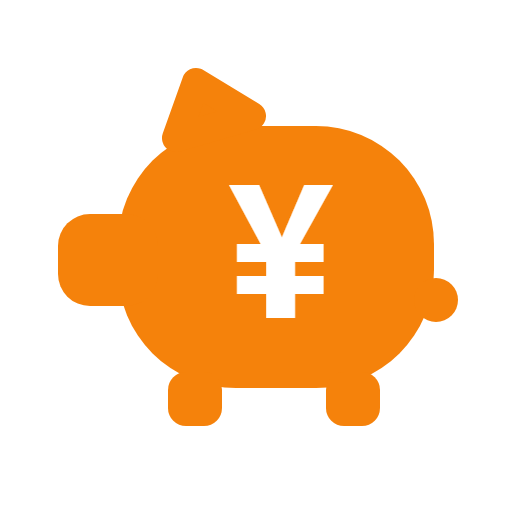
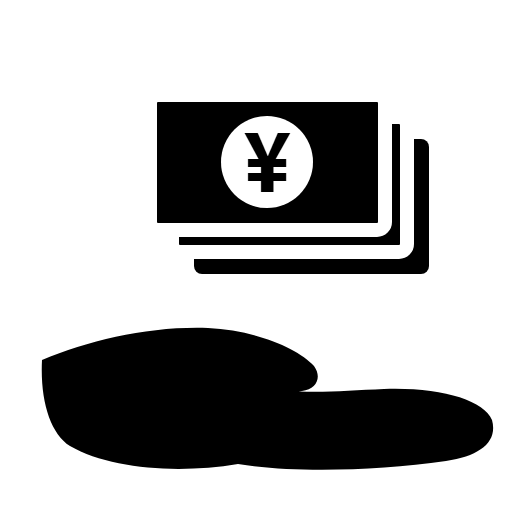
カレンダー固定はグリッドのみに縮小（月間まとめ・選択日はスクロール側へ）・かんたん設定コード（6桁）でクラウドトークン適用・アイコンを手のひら＋紙幣に変更

diff --git a/index.html b/index.html
@@ -679,7 +679,7 @@ function renderCal(main) {
   main.innerHTML = `
   <div class="cal-fixed">
   <h1>カレンダー</h1>
-  <div class="card">
+  <div class="card" style="margin-bottom:6px">
     <div class="cal-head">
       <button onclick="chCalYm(-1)" aria-label="前月">◀</button>
       <span class="ym">${ymLabel(ym)}</span>
@@ -689,7 +689,11 @@ function renderCal(main) {
       <thead><tr>${WD.map(w => `<th>${w}</th>`).join('')}</tr></thead>
       <tbody>${cells}</tbody>
     </table>
-    <div class="sumline" style="margin-top:8px">
+  </div>
+  </div>
+  <div class="cal-scroll">
+  <div class="card">
+    <div class="sumline">
       <div><div class="lb">収入</div><div class="v amt-inc">${yen(msum.inc)}</div></div>
       <div><div class="lb">支出</div><div class="v amt-exp">${yen(msum.exp)}</div></div>
       <div><div class="lb">合計</div><div class="v num ${msum.net < 0 ? 'amt-exp' : ''}">${msum.net < 0 ? '-' : ''}${yen(Math.abs(msum.net))}</div></div>
@@ -699,8 +703,7 @@ function renderCal(main) {
       <button class="ghost" style="padding:4px 8px" onclick="inputAt('${state.calSel}')">＋ この日に入力</button>
     </div>
   </div>
-  </div>
-  <div class="cal-scroll">${listHtml}</div>`;
+  ${listHtml}</div>`;
 }
 function chCalYm(n) { state.calYm = shiftYm(state.calYm, n); render(); }
 // シングルタップ: 日を選択して下部明細の該当日へスクロール / ダブルタップ: その日をプリセットして入力タブへ
@@ -1226,12 +1229,45 @@ function cloudSettingsHtml() {
     <div class="hint">アプリを開いたとき1日1回、非公開リポジトリ（${CLOUD_REPO}）へ自動バックアップします。過去の世代も履歴に残ります。</div>
     <div style="font-size:13px">${status}</div>
     <div class="addrow">
+      <input type="password" id="cloudPin" inputmode="numeric" maxlength="6" placeholder="かんたん設定コード（6桁）" style="flex:1">
+      <button class="primary" onclick="applyPinToken()">適用</button>
+    </div>
+    <div class="addrow">
       <input type="password" id="cloudToken" placeholder="${tokenSet ? '設定済み（変更時のみ入力）' : 'GitHubトークンを貼り付け'}" style="flex:1">
       <button class="primary" onclick="saveCloudToken()">保存</button>
     </div>
     <button onclick="cloudBackupNow()">☁️ 今すぐバックアップ</button>
     <button onclick="cloudRestore()">⬇️ クラウドから復元</button>
     ${tokenSet ? '<button class="danger" onclick="clearCloudToken()">バックアップ停止（トークン削除）</button>' : ''}`;
+}
+/* かんたん設定: 6桁コードを入力すると、埋め込みの暗号文からトークンを復号して適用する。
+   PIN_BLOB は base64(salt16 | iv12 | AES-GCM暗号文)。コード本体・平文トークンはリポジトリに置かない。
+   コード誤り＝AES-GCMの復号失敗として検出する（コードの照合値も持たない）。
+   暗号文の再生成: node tools\make-pin-blob.js <6桁コード> <トークン> */
+const PIN_BLOB = '';
+async function decryptWithPin(pin, blobB64) {
+  const raw = Uint8Array.from(atob(blobB64), ch => ch.charCodeAt(0));
+  const salt = raw.slice(0, 16), iv = raw.slice(16, 28), ct = raw.slice(28);
+  const keyMat = await crypto.subtle.importKey('raw', new TextEncoder().encode(pin), 'PBKDF2', false, ['deriveKey']);
+  const key = await crypto.subtle.deriveKey(
+    { name: 'PBKDF2', salt, iterations: 310000, hash: 'SHA-256' },
+    keyMat, { name: 'AES-GCM', length: 256 }, false, ['decrypt']);
+  const pt = await crypto.subtle.decrypt({ name: 'AES-GCM', iv }, key, ct);
+  return new TextDecoder().decode(pt);
+}
+async function applyPinToken() {
+  const pin = document.getElementById('cloudPin').value.trim();
+  let token;
+  try {
+    if (!/^\d{6}$/.test(pin) || !PIN_BLOB) throw new Error('bad pin');
+    token = await decryptWithPin(pin, PIN_BLOB);
+  } catch (e) {
+    alert('パスワードが間違っています');
+    return;
+  }
+  // 既存の保存フロー（クラウド側バックアップの確認→復元提案つき）に乗せる
+  document.getElementById('cloudToken').value = token;
+  await saveCloudToken();
 }
 async function saveCloudToken() {
   const v = document.getElementById('cloudToken').value.trim();

diff --git a/test/smoke.test.js b/test/smoke.test.js
@@ -41,7 +41,7 @@ const bootstrap = `(function(){ 'use strict';\n` + appJs + `
 ;globalThis.__api = {
   get store() { return store; },
   state, go, render, setDate, setKind, selectCat, pad, padBack, saveEntry, openEntry, deleteEntry, cancelEdit,
-  openPad, closePad, closePadSoft,
+  openPad, closePad, closePadSoft, decryptWithPin, applyPinToken,
   calSelect, chCalYm, chBudYm, chRep, setRepMode, setRepKind, setSetKind,
   renameCat, reorderCats, addCat, addRec, toggleRec, delRec,
   openBudgetEdit, closeBudgetEdit, chBudEditYm, setBudDraftTotal, setBudDraftCat, saveBudgetEdit, budgetForYm,
@@ -356,6 +356,13 @@ A.go('cal');
 assert.strictEqual(elements.main.className, 'calmode', 'カレンダーはmain固定モード');
 assert(elements.main.innerHTML.includes('class="cal-fixed"'), 'グリッド固定部あり');
 assert(elements.main.innerHTML.includes('class="cal-scroll"'), '明細スクロール部あり');
+{
+  const calHtml = elements.main.innerHTML;
+  const fixedPart = calHtml.slice(0, calHtml.indexOf('cal-scroll'));
+  assert(fixedPart.includes('<table class="cal">'), '固定部はカレンダーグリッドを含む');
+  assert(!fixedPart.includes('sumline'), '月間まとめ（収入/支出/合計）は固定部に含めない');
+  assert(calHtml.indexOf('sumline') > calHtml.indexOf('cal-scroll'), '月間まとめはスクロール側');
+}
 const selIso = ym + '-03';
 A.calSelect(selIso);
 assert.strictEqual(A.state.tab, 'cal', 'シングルタップでは移動しない');
@@ -435,6 +442,28 @@ console.log('OK 旧形式データの移行');
   r = await A.cloudBackup(true);
   assert(r.ok, 'force指定は同日でも実行');
   console.log('OK クラウドバックアップ（1日1回・sha更新・スキップ判定）');
+
+  // 18) かんたん設定コード（6桁→トークン復号）。実コード・実トークンは使わずテスト専用の暗号文で往復検証
+  const enc = new TextEncoder();
+  const salt = crypto.getRandomValues(new Uint8Array(16));
+  const iv = crypto.getRandomValues(new Uint8Array(12));
+  const km = await crypto.subtle.importKey('raw', enc.encode('123456'), 'PBKDF2', false, ['deriveKey']);
+  const key = await crypto.subtle.deriveKey({ name: 'PBKDF2', salt, iterations: 310000, hash: 'SHA-256' }, km, { name: 'AES-GCM', length: 256 }, false, ['encrypt']);
+  const ct = new Uint8Array(await crypto.subtle.encrypt({ name: 'AES-GCM', iv }, key, enc.encode('github_pat_TESTTOKEN')));
+  const blob = Buffer.concat([salt, iv, ct]).toString('base64');
+  assert.strictEqual(await A.decryptWithPin('123456', blob), 'github_pat_TESTTOKEN', '正しいコードで復号できる');
+  let failed = false;
+  try { await A.decryptWithPin('000000', blob); } catch (e) { failed = true; }
+  assert(failed, '誤ったコードは復号失敗（AES-GCM認証エラー）');
+  A.go('settings');
+  assert(elements.main.innerHTML.includes('id="cloudPin"'), '設定タブにコード入力欄');
+  assert(elements.main.innerHTML.includes('applyPinToken()'), '適用ボタン');
+  elements.cloudPin = elements.cloudPin || { value: '' };
+  document.getElementById('cloudPin').value = '000000';
+  global.__lastAlert = '';
+  await A.applyPinToken();
+  assert.strictEqual(global.__lastAlert, 'パスワードが間違っています', '誤ったコードでエラーメッセージ');
+  console.log('OK かんたん設定コード（復号往復・誤コード検出）');
 
   console.log('\n=== 全項目 PASS ===');
 })().catch(e => { console.error(e); process.exit(1); });

diff --git a/tools/make-pin-blob.js b/tools/make-pin-blob.js
@@ -1,0 +1,20 @@
+// かんたん設定コード用の暗号文（PIN_BLOB）を生成する。実行はローカルのみ。
+// 使い方: node tools\make-pin-blob.js <6桁コード> <GitHubトークン>
+// 出力されたbase64を index.html の `const PIN_BLOB = '...'` に貼る。
+// 注意: コードとトークンをこのリポジトリ（公開）に絶対にコミットしないこと。
+const [pin, token] = process.argv.slice(2);
+if (!/^\d{6}$/.test(pin || '') || !token) {
+  console.error('使い方: node tools\\make-pin-blob.js <6桁コード> <トークン>');
+  process.exit(1);
+}
+(async () => {
+  const enc = new TextEncoder();
+  const salt = crypto.getRandomValues(new Uint8Array(16));
+  const iv = crypto.getRandomValues(new Uint8Array(12));
+  const keyMat = await crypto.subtle.importKey('raw', enc.encode(pin), 'PBKDF2', false, ['deriveKey']);
+  const key = await crypto.subtle.deriveKey(
+    { name: 'PBKDF2', salt, iterations: 310000, hash: 'SHA-256' },
+    keyMat, { name: 'AES-GCM', length: 256 }, false, ['encrypt']);
+  const ct = new Uint8Array(await crypto.subtle.encrypt({ name: 'AES-GCM', iv }, key, enc.encode(token)));
+  console.log(Buffer.concat([salt, iv, ct]).toString('base64'));
+})();

diff --git a/sw.js b/sw.js
@@ -1,5 +1,5 @@
 // ネットワーク優先・失敗時キャッシュ（オフラインでも起動できるように）
-const CACHE = 'kakeibo-v3';
+const CACHE = 'kakeibo-v4';
 const ASSETS = ['./', './index.html', './manifest.webmanifest', './icons/icon-192.png', './icons/icon-512.png'];
 
 self.addEventListener('install', e => {